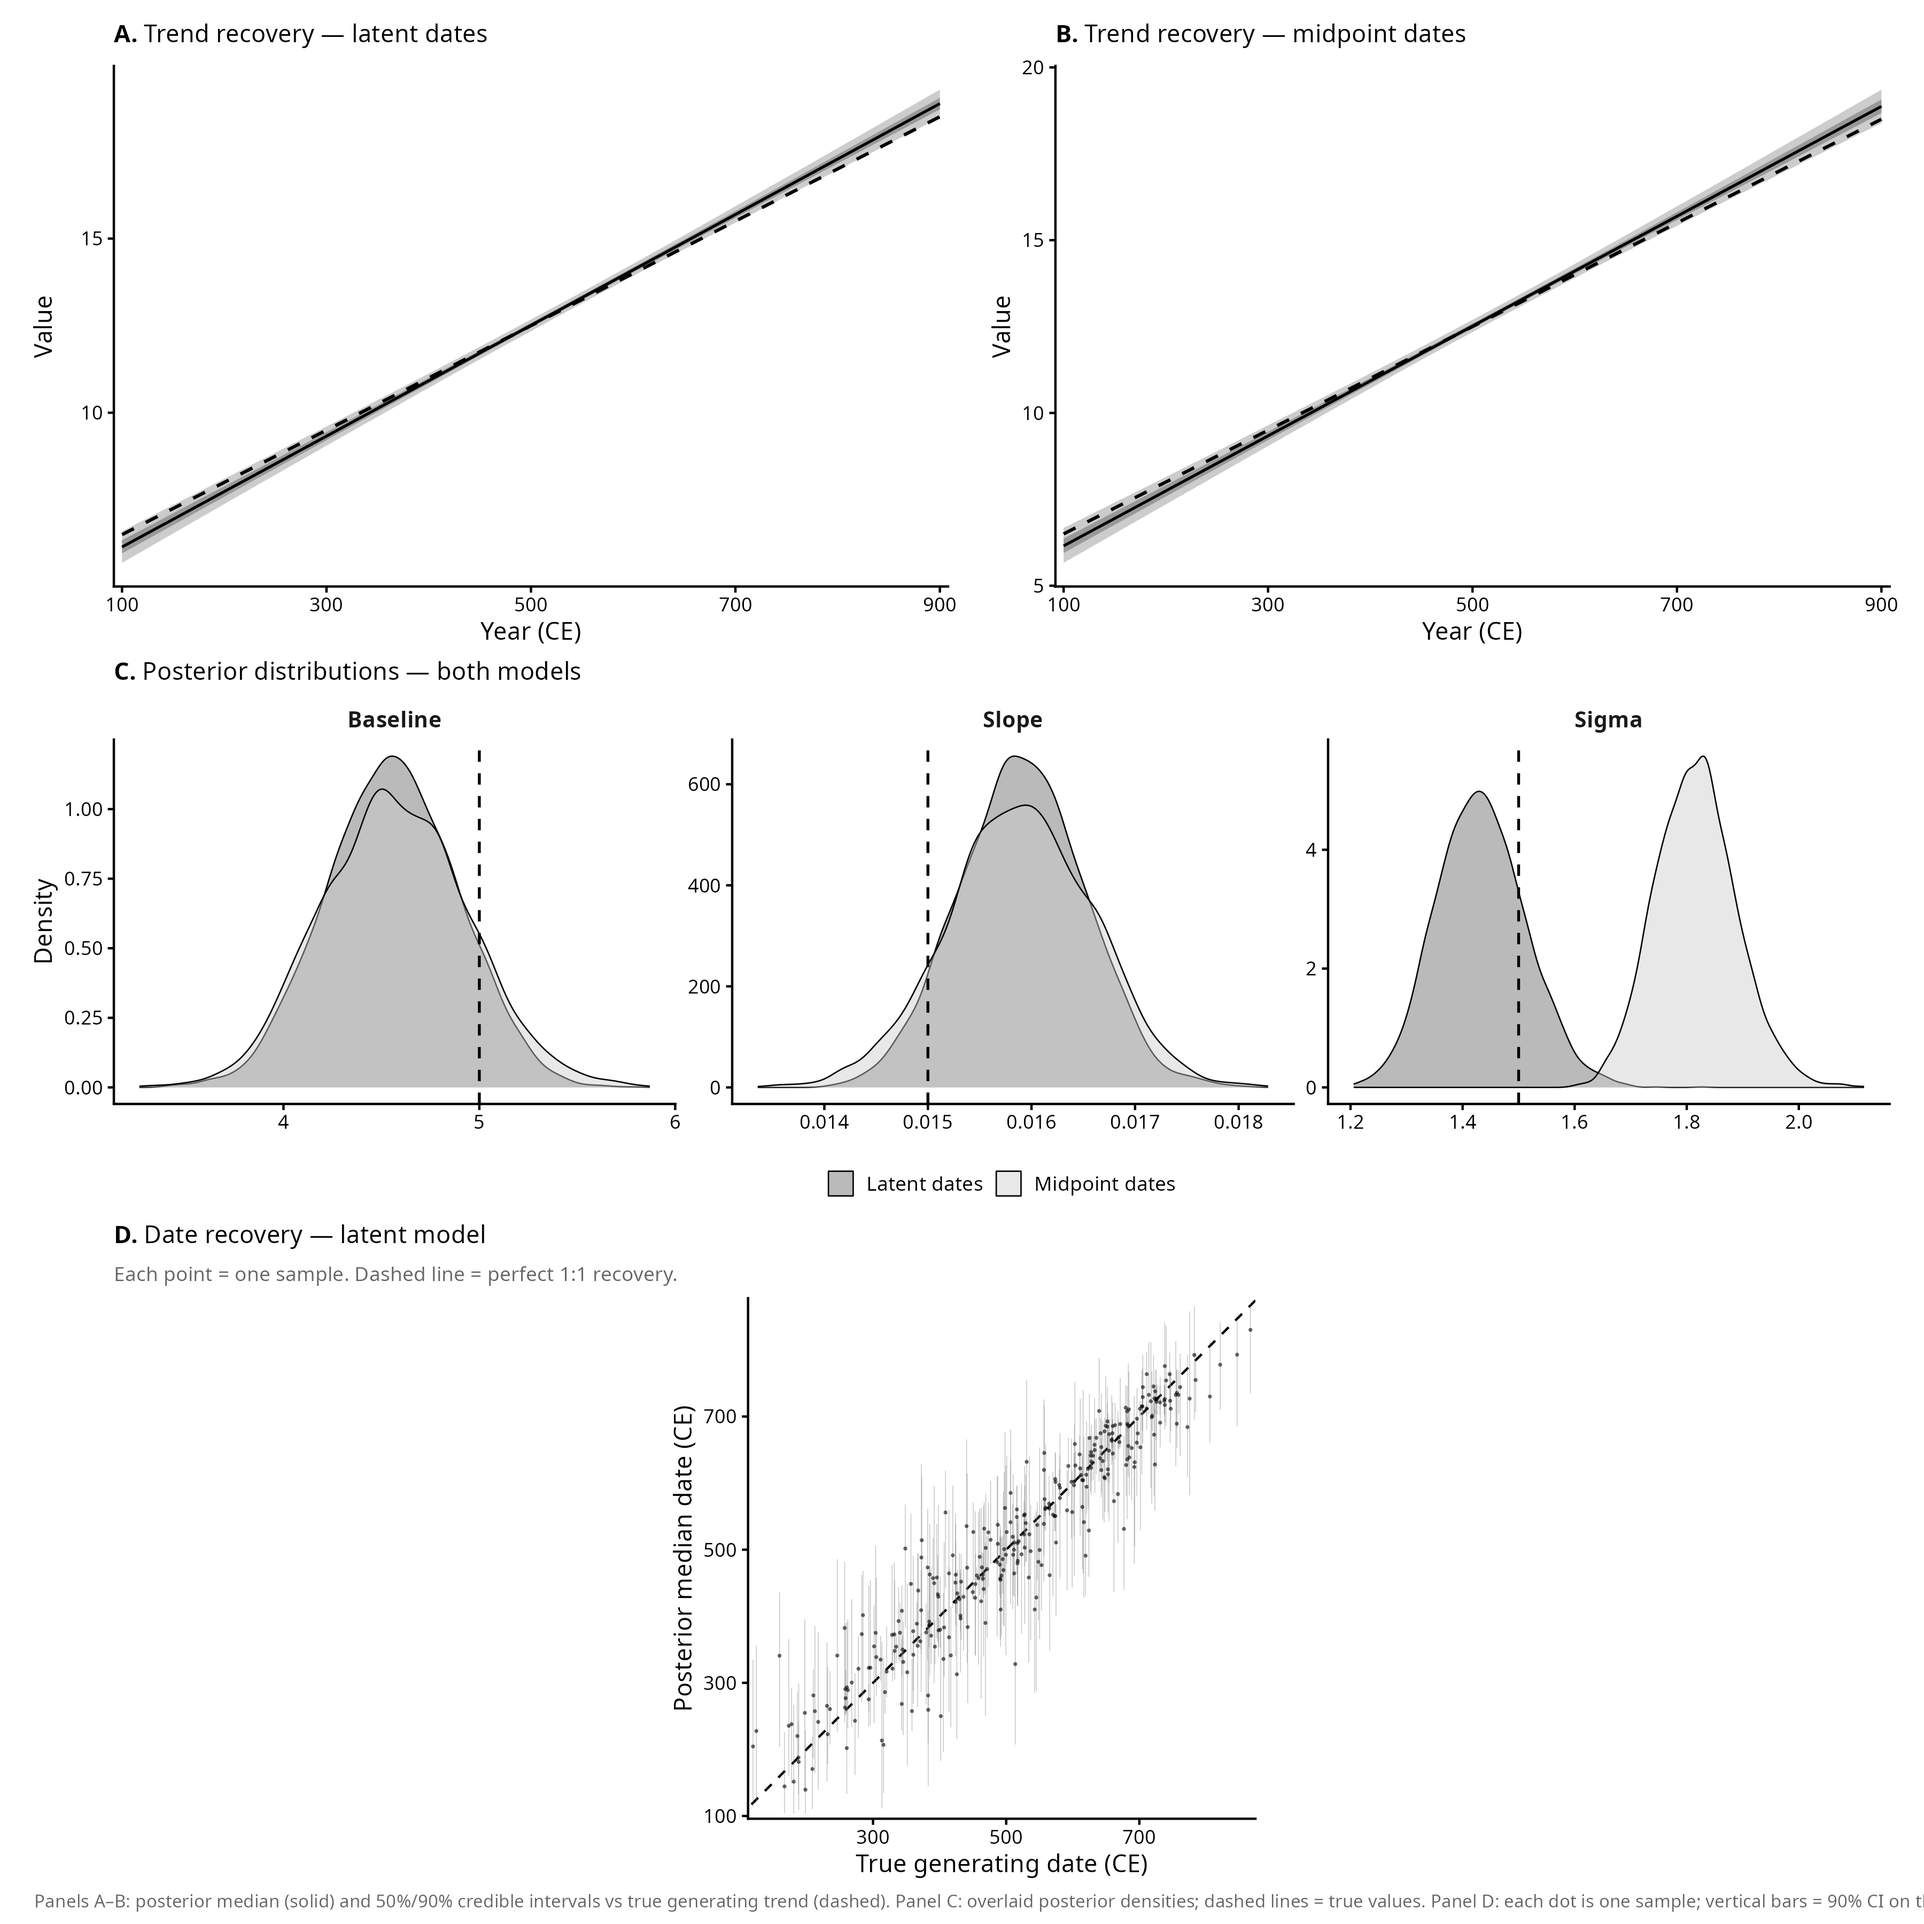
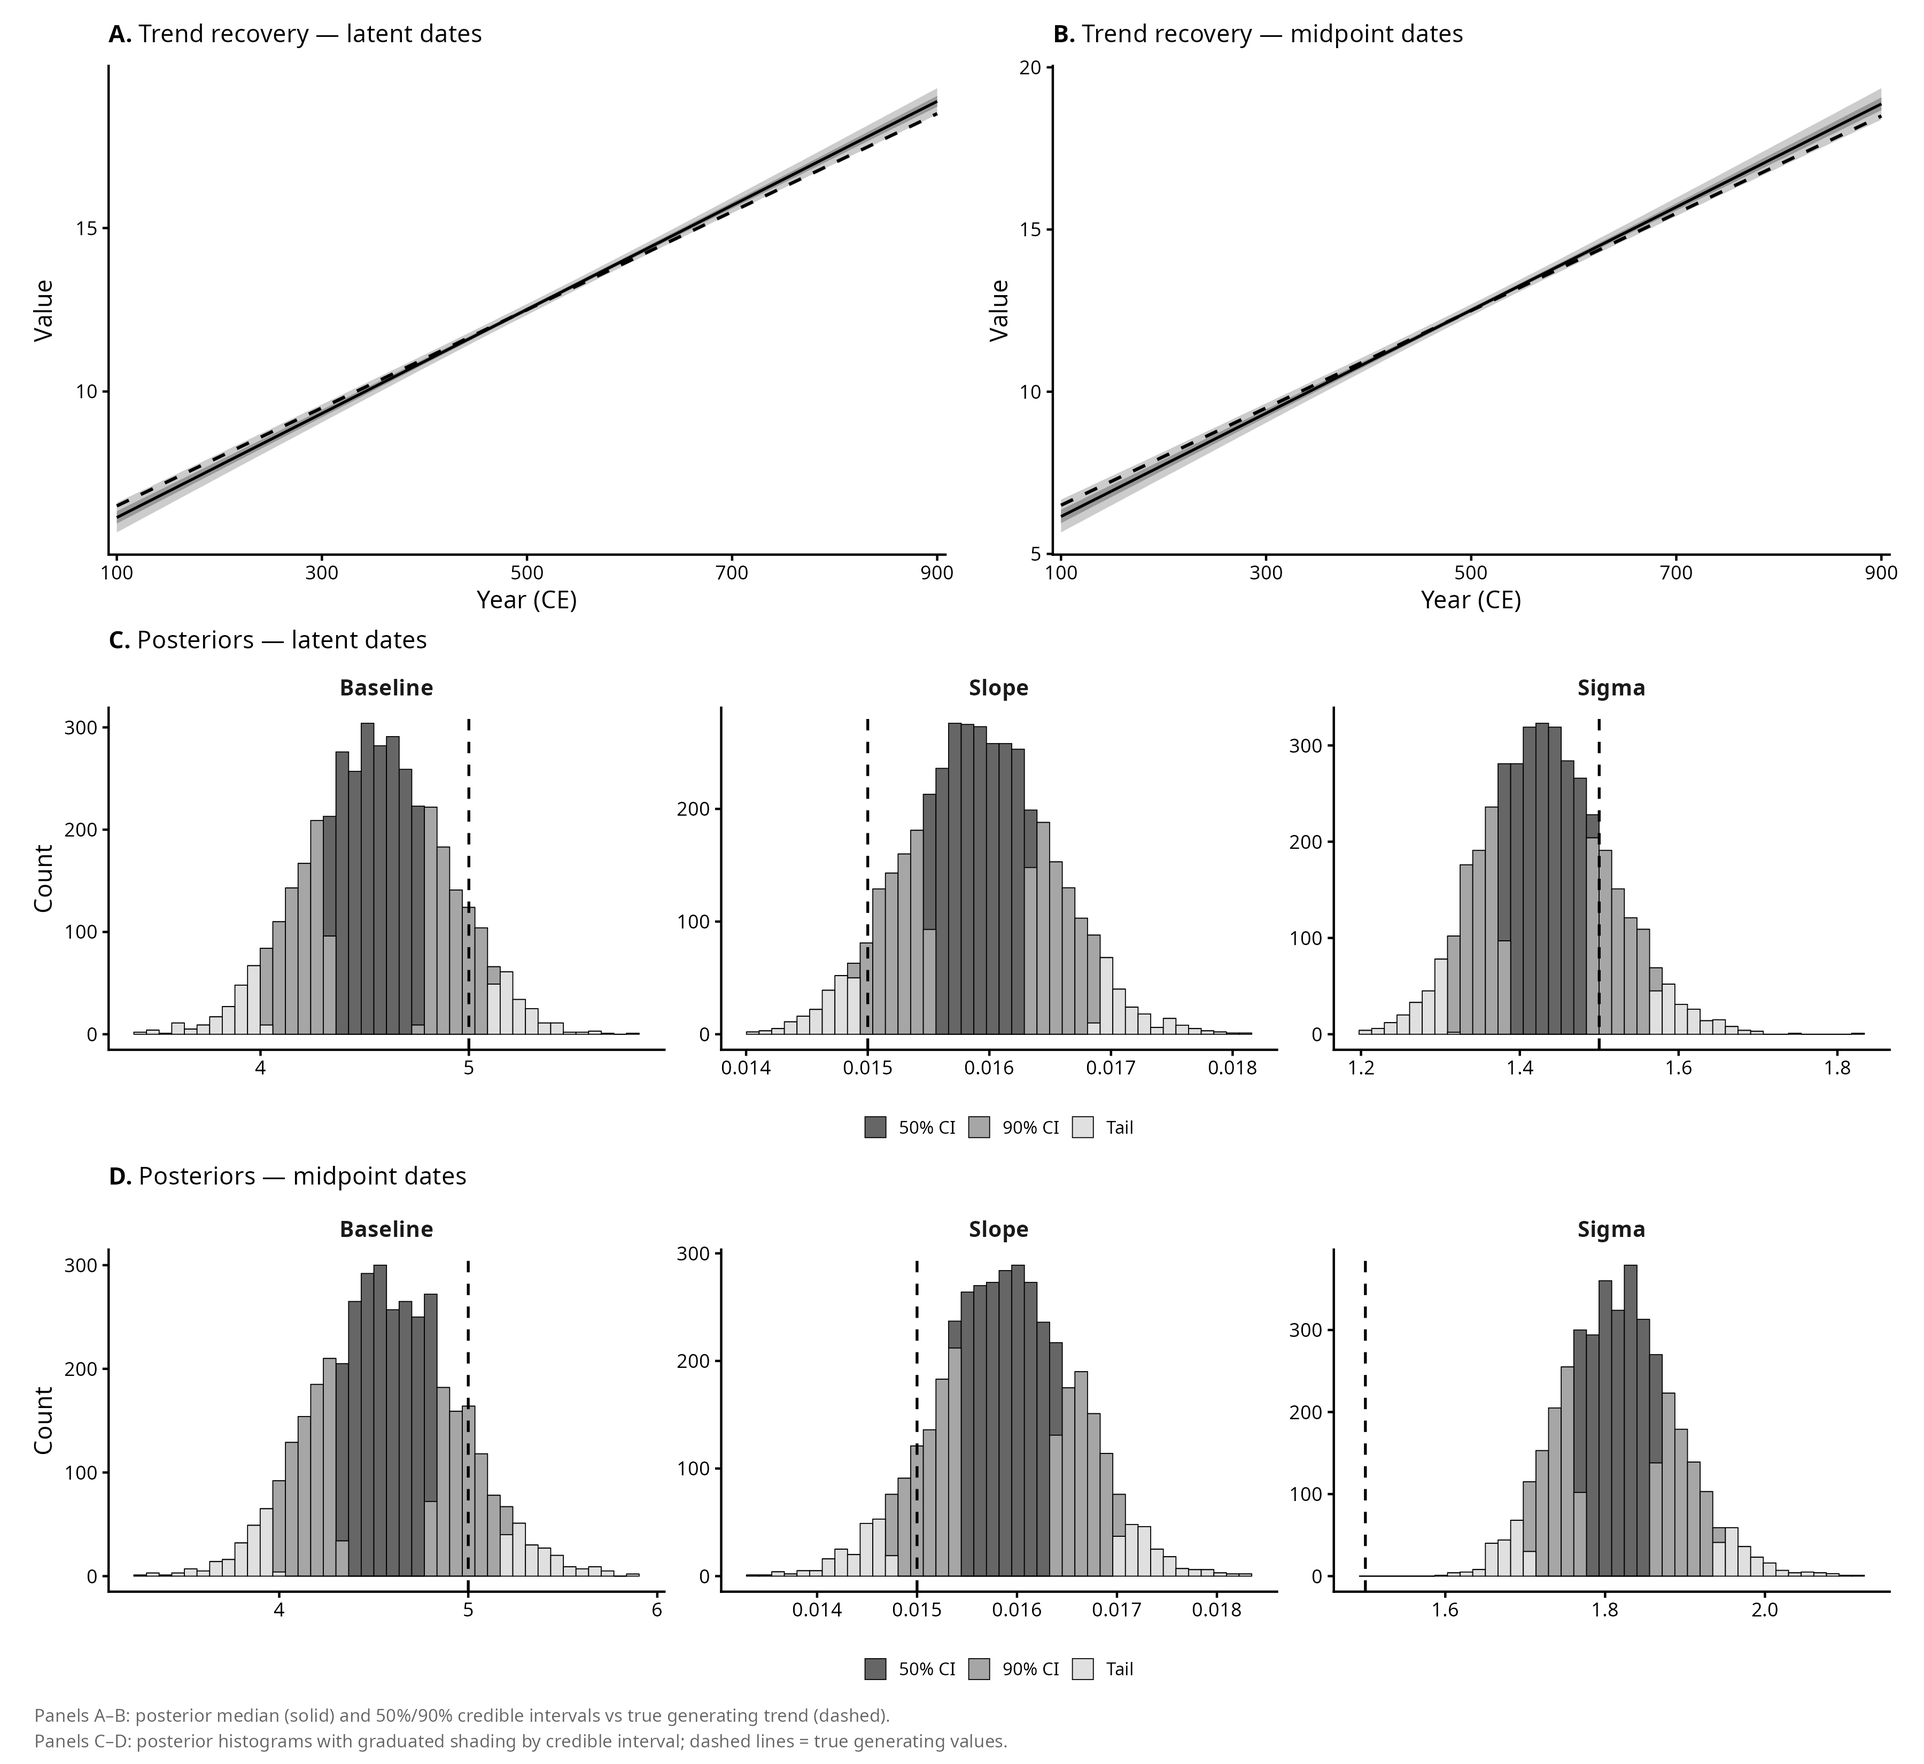
Fitted model trend not recovered

diff --git a/Simulations/Sim_Linear/README.md b/Simulations/Sim_Linear/README.md
@@ -42,7 +42,7 @@ Per-sample diagnostic panels for a random subset of observations. The left panel
 
 A second model uses the midpoint of each sample's `[Start_date, End_date]` window as a fixed date, with no latent date inference. This is the conventional approach — treating the midpoint as the "best guess" and ignoring date uncertainty.
 
-Panels **A–B** compare the trend recovery of the latent-date model and the midpoint model. Panel **C** overlays the posterior parameter distributions from both models: the midpoint model produces wider posteriors (especially for sigma) because unmodelled date uncertainty inflates the residual variance. Panel **D** shows the date recovery scatter from the latent model — the midpoint model has no equivalent, since it does not estimate dates.
+Panels **A–B** compare the trend recovery of the latent-date model and the midpoint model. Panels **C–D** show the posterior distributions for each generating parameter, with graduated shading by credible interval (50% CI darker, 90% CI lighter, tails lightest). The midpoint model produces wider posteriors and a sigma estimate biased upward (~1.7 vs the true 1.5), because unmodelled date uncertainty is absorbed into the residual variance.
 
 <p align="center">
 <img src="figures/model_comparison.png" height="800" text-align="center"/>
